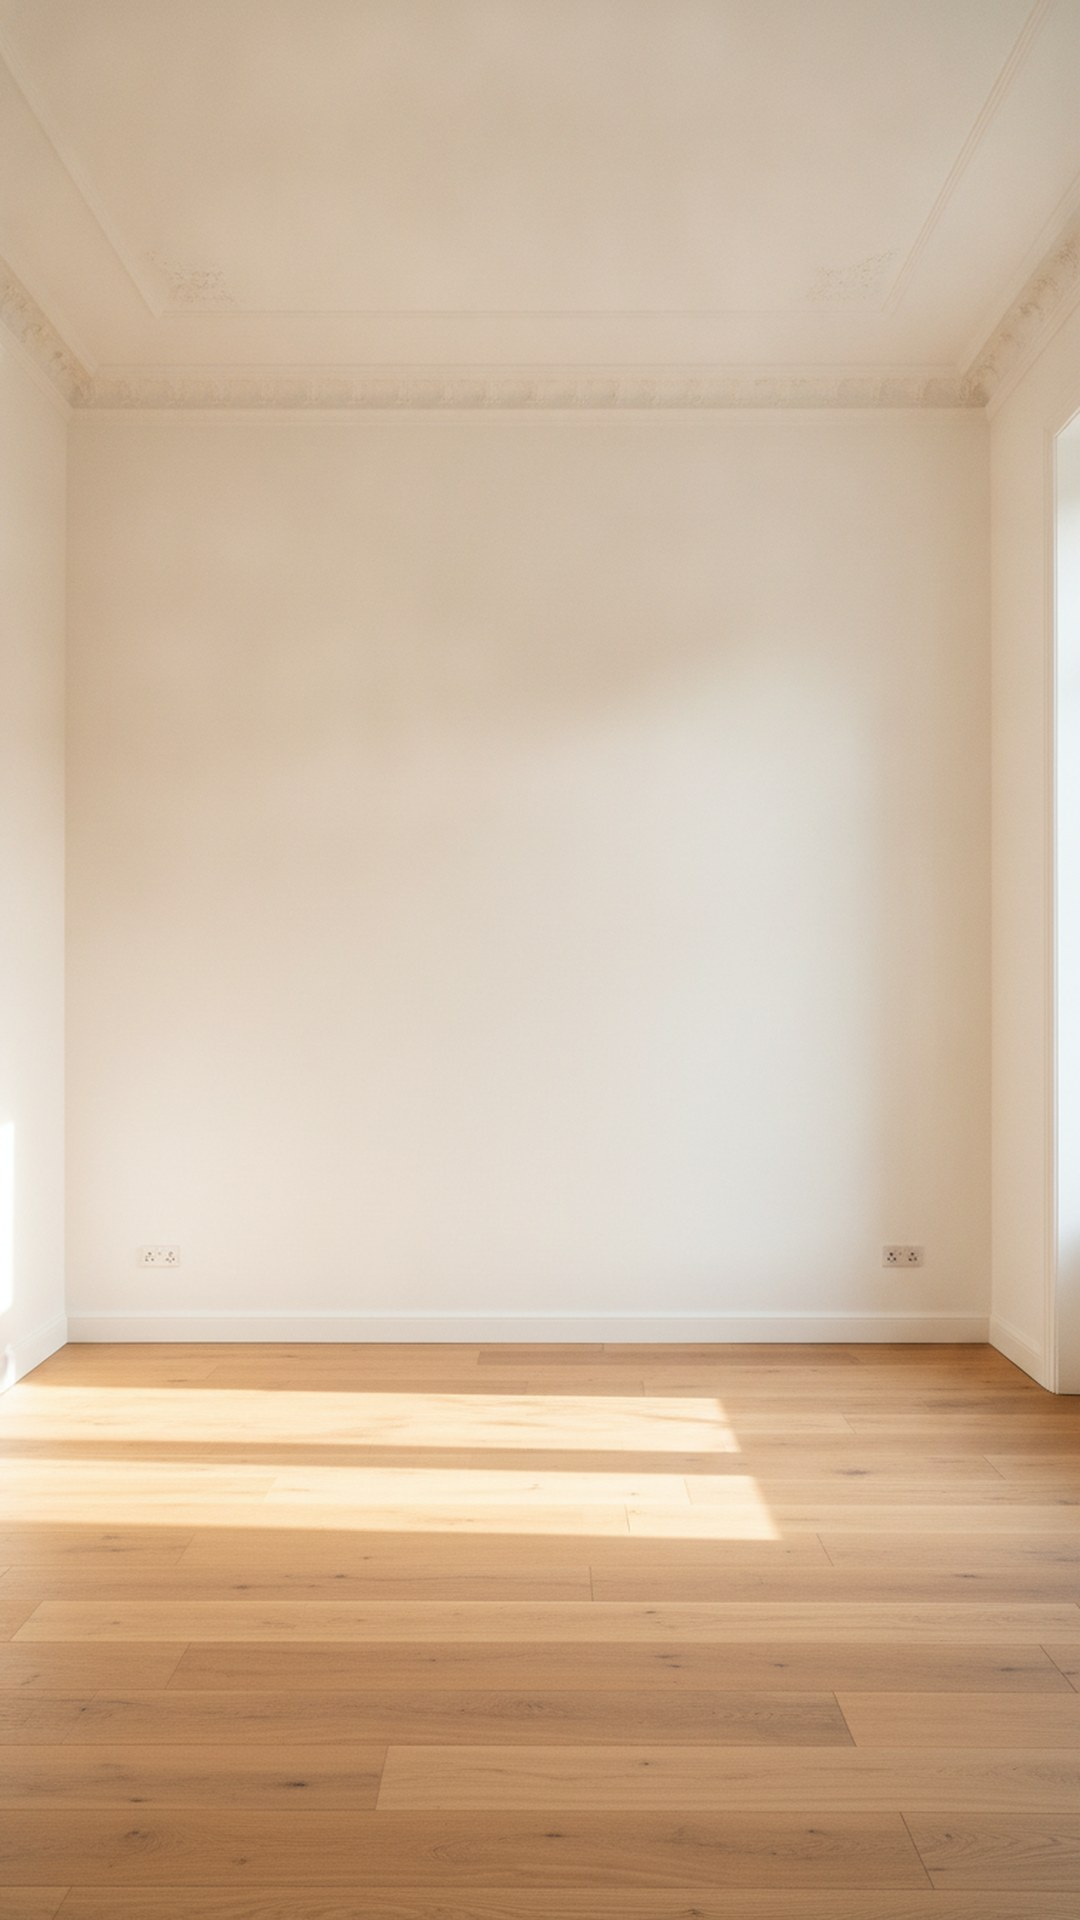
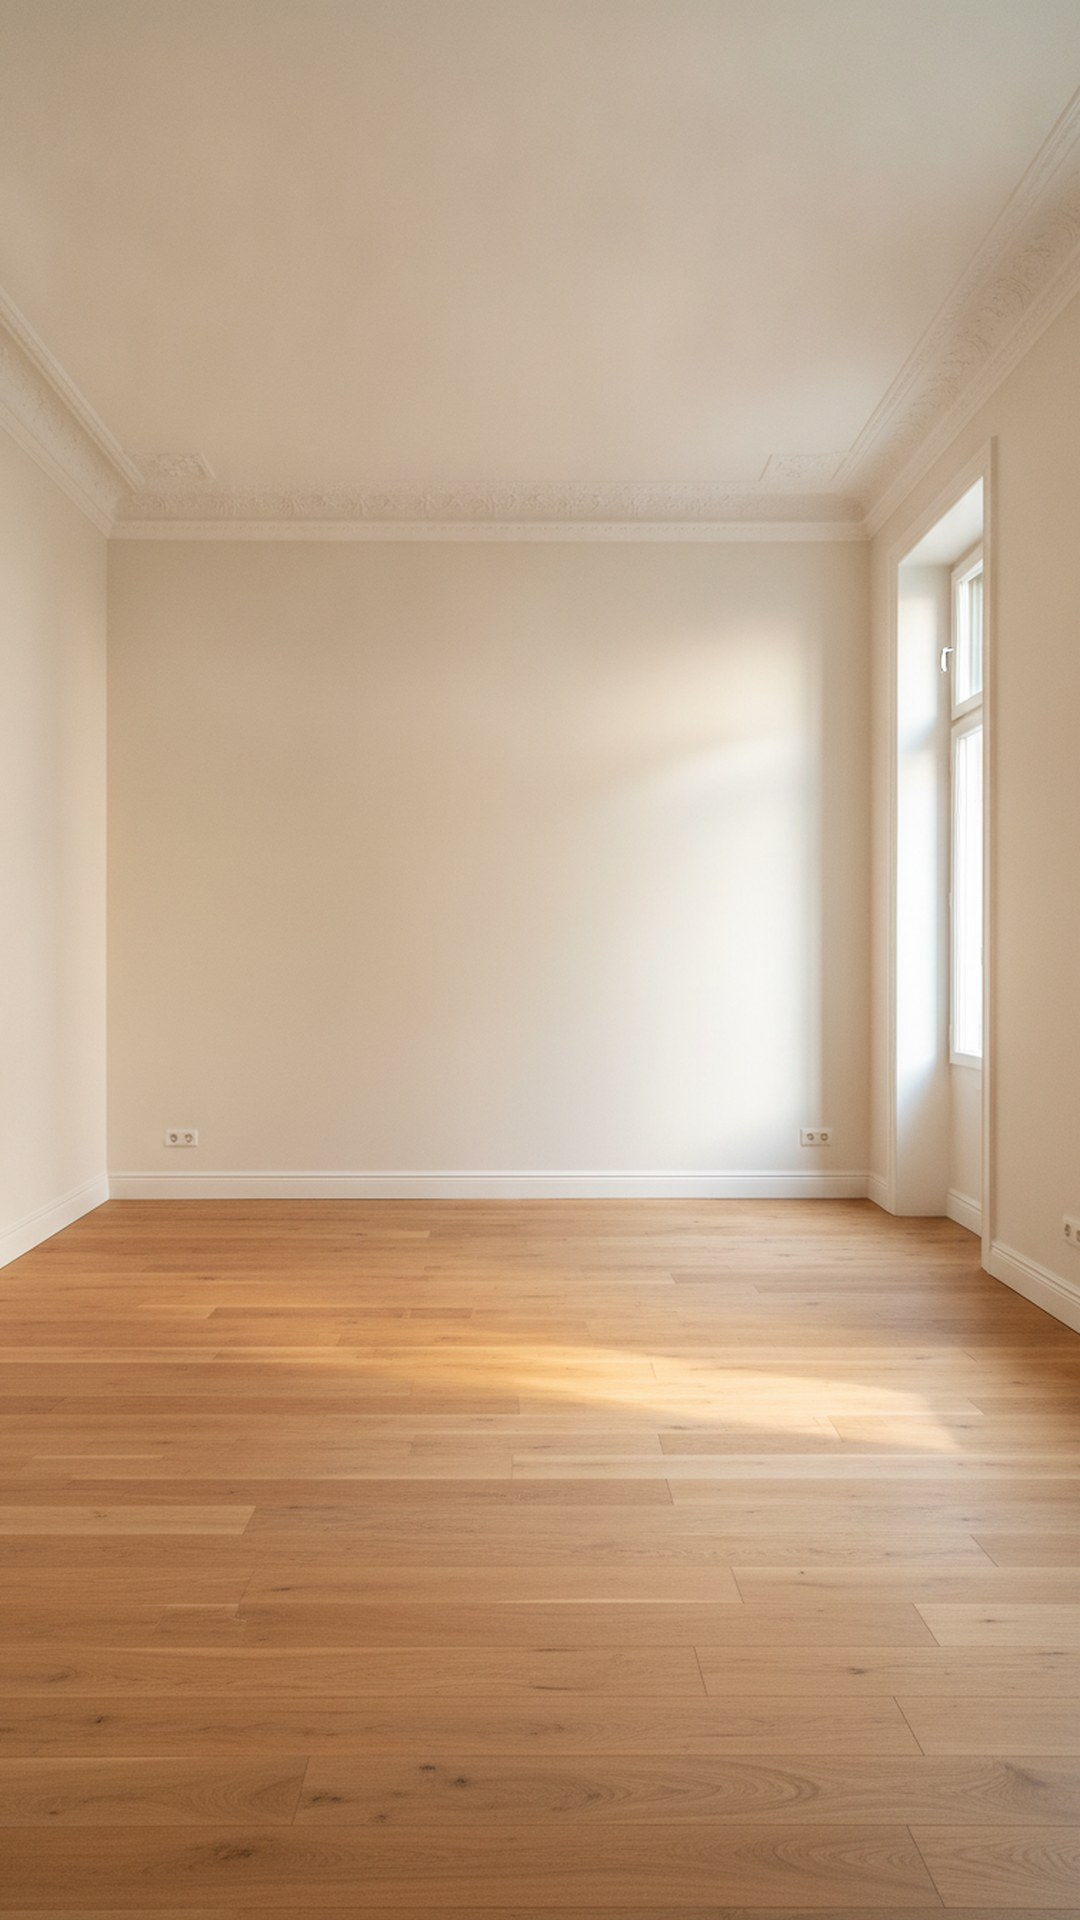
Keep the room the same on every slide; Spatial-style callouts; bigger kitchen changes
- 'Before' rooms show their window and features; restyles may not add or remove walls, windows,
  beams or brick, or repaint; the writer describes only movable things (kitchens: cabinets too).
- Callouts read like a person wanting the piece ('need this...', 'love this...').
- The writer uses its own words instead of copying the examples.
- Two tested 'before' rooms in the library.

diff --git a/snugbot/pipeline.py b/snugbot/pipeline.py
@@ -29,9 +29,11 @@ from .history import SENT, History
 from .planner import Plan
 from .tiktok import TikTok, TikTokError, wait_for_urls
 
-KEEP = ("Keep the room itself EXACTLY the same: the same walls, the same window(s) (position, size and frame, "
-        "no curtains or blinds added), the same floor, ceiling and doors, and the same camera position, angle "
-        "and lens.")
+KEEP = ("This is a restyle of the SAME room photo, not a new room. Keep the architecture pixel-for-pixel: the same "
+        "walls in the same place and the same wall color and finish, the same window(s) with the same position, "
+        "size and frame, the same floor, ceiling, cornicing, doors and fireplace, and the same camera position, "
+        "angle and lens. Do NOT add, remove or move any window, wall, beam, column, archway, brick or panelling, "
+        "do not repaint the walls and do not add curtains or blinds.")
 FINISH = ("Lighting to suit the look (moody looks darker with lamps on, airy looks in bright daylight). "
           "Photorealistic interior photography, rich believable colors, like a high-end design magazine. "
           "No text, no watermarks, no people.")
@@ -47,11 +49,15 @@ def look_prompt(plan: Plan, look: str) -> str:
             what = (f"Restyle this kitchen fully, like a real, loved kitchen styled for a design magazine: cabinet "
                     f"colors, worktops, lights, stools, open shelves, plants and decor can change, the layout "
                     f"stays. The look: {look}.")
+    elif plan.room == "kitchen":
+        what = (f"Restyle this kitchen completely in this look: {look}. Repaint the cabinets, change the handles, "
+                f"worktops, splashback, lights, stools and decor so it looks totally different, keeping the layout, "
+                f"the walls and the window.")
     else:
         what = (f"Restyle this {plan.room} completely in this look: {look}. Replace the furniture, textiles, rugs, "
                 f"art, lamps and decor so it feels full of character and totally different, keeping the wall color "
                 f"and the layout.")
-    return f"{what} {KEEP} {FINISH}"
+    return f"{KEEP} {what} {FINISH}"
 
 
 # ---- the plan file ------------------------------------------------------------------------------
@@ -161,9 +167,10 @@ def write_callout(ai: Gemini, img: Image.Image, plan: Plan, label: str, log=prin
     """A callout about a piece that's really in the picture, and where it is."""
     prompt = (f"This photo shows a {plan.room} styled as \"{label}\". Pick the ONE most eye-catching piece that "
               f"is clearly visible (a sofa, chair, lamp, table, sideboard, rug, mirror or artwork). Write a short "
-              f"lowercase TikTok callout about it, 3-6 words, naming its color or material, like \"need this "
-              f"chrome coffee table\", \"love this rosewood credenza\", \"this couch and lamp!\", \"orange "
-              f"mushroom lamp\". No brands, no emoji. Return JSON {{\"callout\": \"...\", \"box_2d\": [ymin, xmin, "
+              f"lowercase TikTok callout about it, 3-7 words, said like a person who wants it, naming its color or "
+              f"material: start with \"need this\", \"love this\", \"obsessed with this\" or \"this ... !\" "
+              f"(like \"need this chrome coffee table\", \"love this rosewood credenza\", \"this couch and lamp!\"). "
+              f"No brands, no emoji. Return JSON {{\"callout\": \"...\", \"box_2d\": [ymin, xmin, "
               f"ymax, xmax]}} with the box around that piece, values 0-1000.")
     try:
         d = ai.text_json(prompt, images=[img])

diff --git a/snugbot/planner.py b/snugbot/planner.py
@@ -102,6 +102,19 @@ def choose(fmt: str, day: date, hist: History, cfg: dict, rng: random.Random,
 
 # ---- writing ---------------------------------------------------------------------------------------
 
+MOVABLE = ("Every look describes ONLY movable things (furniture, rugs, textiles, cushions, lamps and light fittings, "
+           "art, mirrors, plants, books, decor): never walls, wall color, brick, concrete, panelling, beams, floors, "
+           "ceilings, windows or curtains, because the room itself stays exactly the same in every picture.")
+
+
+KITCHEN = (" In a kitchen the cabinet color, handles, worktops, splashback, lights, stools and open shelves CAN "
+           "change and each look should make a big, visible change to them (the layout stays).")
+
+
+def movable(room: str) -> str:
+    return MOVABLE + (KITCHEN if room == "kitchen" else "")
+
+
 def _prompt(fmt: str, item: dict, room: str, recent: list[str], cfg: dict) -> str:
     n = cfg["slides"]["restyles"]
     s = cfg["slides"]
@@ -112,8 +125,8 @@ def _prompt(fmt: str, item: dict, room: str, recent: list[str], cfg: dict) -> st
   "turning this into a {item['name']} {room} ✍"); at most {s['max_hook_chars']} characters, lowercase.
 - {n} "slides", each {{"text": a 2-5 word lowercase style label that ends with "{item['name']}", in the spirit
   of "warm nostalgic mid-century" or "retro glam mid-century" but with your OWN words that fit {item['name']}
-  (don't reuse "warm nostalgic", "moody and refined" or "retro glam"); {n} clearly different moods, "look": 25-45 words describing how the {room} is furnished and decorated in that version: the main
-  furniture, materials, colors, lighting mood, art and decor}}.
+  (don't reuse "warm nostalgic", "moody and refined" or "retro glam"); {n} clearly different "look": 25-45 words describing how the {room} is furnished and decorated in that version: the main
+  furniture, materials, colors, lighting mood, art and decor}}. {movable(room)}
 - "cta_look": one more version of the room (25-45 words) for the last slide.
 - "cta_question": "Have any Pinterest inspo you want to try? 📌" or a close variant.
 - "title": "{item['name']} transformation 📌" or a close variant (max 40 characters)."""
@@ -124,7 +137,7 @@ def _prompt(fmt: str, item: dict, room: str, recent: list[str], cfg: dict) -> st
 - {n} "slides", each {{"text": ONE personal, opinionated lowercase line, 3-9 words, about that version, in the
   spirit of "the deep blue makes pink feel grown up", "could I commit this much to color? 🫢" or "a person well
   travelled" but your OWN words about what's in that version (never copy these examples), at most {s['max_line_chars']} characters, "look": 25-45 words
-  describing a colorful, characterful restyle of the same {room}: furniture, colors, textiles, art, lighting}}.
+  describing a colorful, characterful restyle of the same {room}: furniture, colors, textiles, art, lighting}}. {movable(room)}
   Make the {n} versions really different from each other (palettes and moods).
 - "cta_look": one more restyle (25-45 words) for the last slide.
 - "cta_question": "{item['cta']}" or a close variant.

diff --git a/snugbot/rooms.py b/snugbot/rooms.py
@@ -77,11 +77,11 @@ def prompt(kind: str, room: str, problem_look: str | None, rng: random.Random) -
                     else "A bare, newly fitted kitchen with plain white units and empty worktops: no decor, "
                          "no stools, no people.")
         text = (f"Photorealistic interior photo of an empty, freshly painted {room} in a city apartment, {camera}. "
-                f"{arch[0].upper() + arch[1:]}, {floor} floor, warm white walls, soft afternoon sunlight making "
+                f"The room has {arch}, CLEARLY VISIBLE in the picture, {floor} floor, warm white walls, soft afternoon sunlight making "
                 f"patches of light on the floor and walls. {contents} Bright and calm, real-estate photography.")
     else:
-        text = (f"Photorealistic smartphone photo of a real, lived-in {room}, {camera}. {arch[0].upper() + arch[1:]}, "
-                f"{floor} floor. The room: {problem_look}. Furnished and tidy but boring. Soft natural daylight. "
+        text = (f"Photorealistic smartphone photo of a real, lived-in {room}, {camera}. The room has {arch}, clearly "
+                f"visible in the picture, and a {floor} floor. The room: {problem_look}. Furnished and tidy but boring. Soft natural daylight. "
                 f"No people, no text.")
     return text, arch, floor
 
